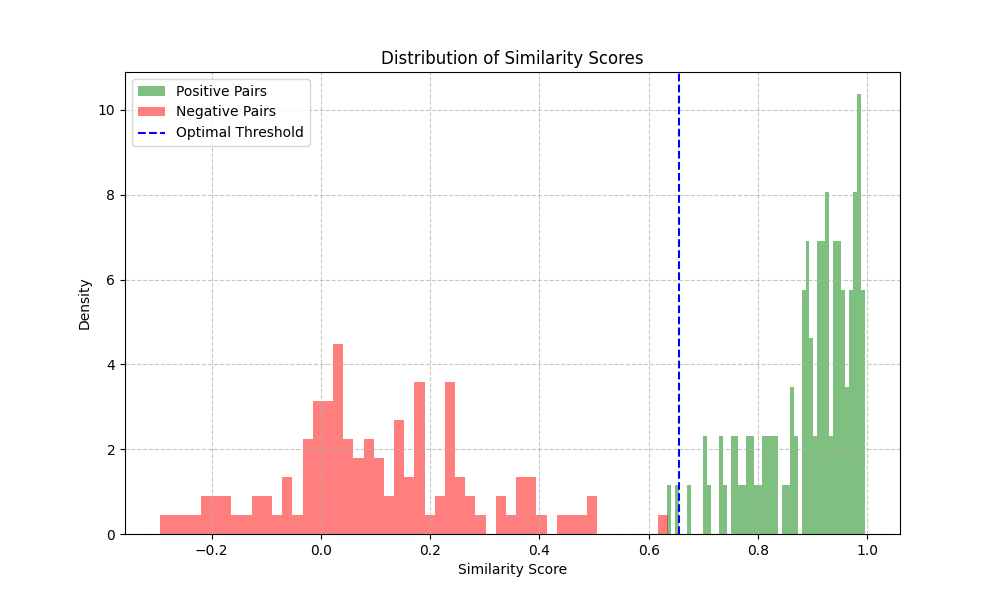
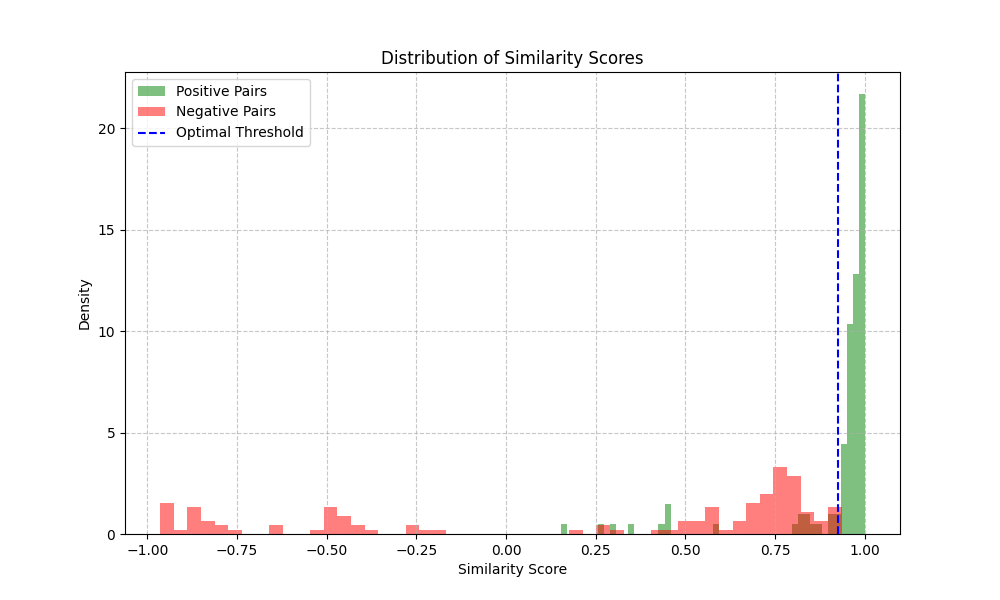
[ Finished ] >> Add benchmark.

diff --git a/benchmark.py b/benchmark.py
@@ -1,0 +1,75 @@
+import time
+import torch
+import numpy as np
+from thop import profile
+
+try:
+    from network.network import Network_Resnet, Network_ConvNext
+except ImportError:
+    pass
+
+def benchmark(model, device, input_shape=(1, 3, 224, 224)):
+    model.to(device)
+    model.eval()
+    dummy_input = torch.randn(input_shape).to(device)
+
+    with torch.no_grad():
+        dummy_output = model(dummy_input)
+        embedding_dim = dummy_output.shape[1]  
+
+    dummy_gallery = torch.randn(1000, embedding_dim).to(device)
+
+    with torch.no_grad():
+        for _ in range(10):
+            _ = model(dummy_input)
+
+    iterations = 100
+    timings = []
+
+    with torch.no_grad():
+        for _ in range(iterations):
+            if device.type == 'cuda': torch.cuda.synchronize()
+            start = time.time()
+
+            probe_features = model(dummy_input)
+
+            if device.type == 'cuda': torch.cuda.synchronize()
+            end = time.time()
+            timings.append(end - start)
+    
+    avg_time = np.mean(timings)
+    
+
+    match_timings = []
+    match_iterations = 1000
+
+    with torch.no_grad():
+        for _ in range(match_iterations):
+            if device.type == 'cuda': torch.cuda.synchronize()
+            start = time.time()
+
+            scores = torch.matmul(probe_features, dummy_gallery.T)
+
+            if device.type == 'cuda': torch.cuda.synchronize()
+            end = time.time()
+            match_timings.append(end - start)
+
+    avg_match_time = np.mean(match_timings)
+    
+
+    print("=" * 30)
+    print(f"Embedding Time: {avg_time * 1000:.2f} ms/image")
+    print(f"Matching Time: {avg_match_time * 1000:.2f}ms/match")  
+    print(f"Model: {model.__class__.__name__}")
+    print(f"Total latency: {(avg_time + avg_match_time) * 1000:.2f} ms/image")
+    print(f"Max Throughput: {1 / (avg_time + avg_match_time):.2f} FPS")
+    print("=" * 30)
+
+def measure_flops(model):
+    input_image = torch.randn(1, 3, 224, 224).to(next(model.parameters()).device)
+    macs, params = profile(model, inputs=(input_image,), verbose=False)
+
+    print("=" * 30)
+    print(f"FLOPS (MACs x2): {macs * 2 / 1e9:.2f} GFLOPS")
+    print(f"Parameters: {params / 1e6:.2f} Million")
+    print("=" * 30)

diff --git a/verification.py b/verification.py
@@ -56,9 +56,12 @@ def verification(model, pairs_csv_path, transform, device):
 
     fpr, tpr, thresholds = roc_curve(labels, scores)
     roc_auc = auc(fpr, tpr)
+
     #EER (Equal Error Rate)
     eer = brentq(lambda x: 1. - x - interp1d(fpr, tpr)(x), 0., 1.)
     threshold_at_eer = interp1d(fpr, thresholds)(eer)
+
+    idx = np.argmin(np.abs(thresholds - threshold_at_eer))
 
     def get_tar_at_far(target_far):
         idx = np.where(fpr <= target_far)[0][-1]
@@ -66,8 +69,9 @@ def verification(model, pairs_csv_path, transform, device):
         return tpr[idx], fpr[idx], strict_thresholds
 
     tar, far, strict_threshold = get_tar_at_far(0.01)
-    trr = 1 - far
-    avg_acc = (tar + trr) / 2
+    trr = 1 - fpr[idx]
+    tar_at_eer = tpr[idx]
+    avg_acc = 1 - eer
 
     print("="*30)
     print("ผลการตรวจสอบ:")

diff --git a/evaluate_convnext.py b/evaluate_convnext.py
@@ -15,6 +15,7 @@ from network.network import Network_Resnet, Network_ConvNext
 from loss.arcface import ArcFace
 from loss.softTriple import SoftTriple
 from verification import verification
+from benchmark import benchmark, measure_flops
 
 
 parser = argparse.ArgumentParser()
@@ -283,6 +284,11 @@ print("Starting verification...")
 if os.path.exists('test_pairs.csv'):
     print("Verifying on test_pairs.csv...")
     eer_threshold, far_threshold = verification(model, 'test_pairs.csv', val_transforms, device)
+
+# Benchmarking
+print("Starting benchmarking...")
+benchmark(model, device)
+measure_flops(model)
 
 with torch.no_grad():
     #gallery

diff --git a/network/network.py b/network/network.py
@@ -48,7 +48,7 @@ class Network_ConvNext(nn.Module):
 
         self.gap = nn.AdaptiveAvgPool2d((1, 1))
         self.fc = nn.Linear(3*num_features, embedding_dim, bias=False)
-        # self.fc_abl = nn.Linear(num_features, embedding_dim, bias=False)
+        self.fc_abl = nn.Linear(num_features, embedding_dim, bias=False)
         self.ln = nn.LayerNorm(embedding_dim)
 
     def extract_backbone(self, x):

diff --git a/visualize_cam.py b/visualize_cam.py
@@ -27,7 +27,7 @@ model_config = {
     'none' : {'attention': 'none', "model_path": '../test_model/dino_ablation_none.pt'},
     's'    : {'attention': 's', "model_path": '../test_model/dino_ablation_sam.pt'},
     'b'    : {'attention': 'b', "model_path": '../test_model/dino_ablation_bam.pt'},
-    'sb'   : {'attention': 'sb', "model_path": '../test_model/dino_main.pt'},
+    'sb'   : {'attention': 'sb', "model_path": '../test_model/dino_main_50_class.pt'},
 }
 def run_visualization():
     loaded_models = {}